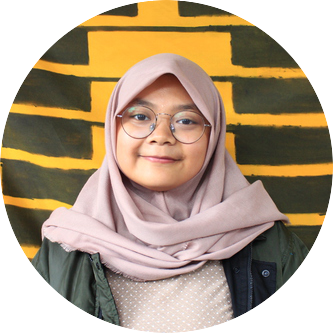
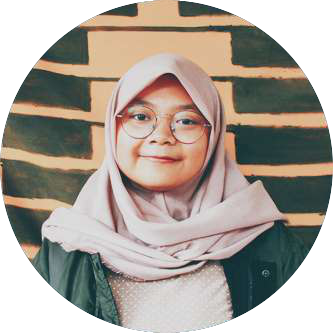
Photos have been changed

diff --git a/templates/about.php b/templates/about.php
@@ -28,15 +28,15 @@
         <br>
         <div class="media">
     		<div class="media-left">
-  	        	<img class = "media-object" src = "faza.png" style = "width:200px;height:200px;">
+  	        	<img class = "media-object img-circle" src = "faza.png" style = "width:200px;height:200px;">
 	        	<figcaption class = "caption"> Faza Fahleraz - 13516095</figcaption>
     		</div>
-    		<div class = "media-body" style="padding-left: 23%">
+    		<div class = "media-body img-circle" style="padding-left: 23%">
 	        	<img class = "media-object" src = "azka.png" style = "width:200px;height:200px;">
 	        	<figcaption class = "caption"> Azka Nabilah M - 13516013</figcaption>
     		</div>
     		<div class="media-right">
-	        	<img class = "media-object" src = "ramboy.png" style = "width:200px;height:200px;">
+	        	<img class = "media-object img-circle" src = "ramboy.png" style = "width:200px;height:200px;">
 	        	<figcaption class = "caption"> Yusuf Rahmat P - 13516062</figcaption>
     		</div>
   		</div>
